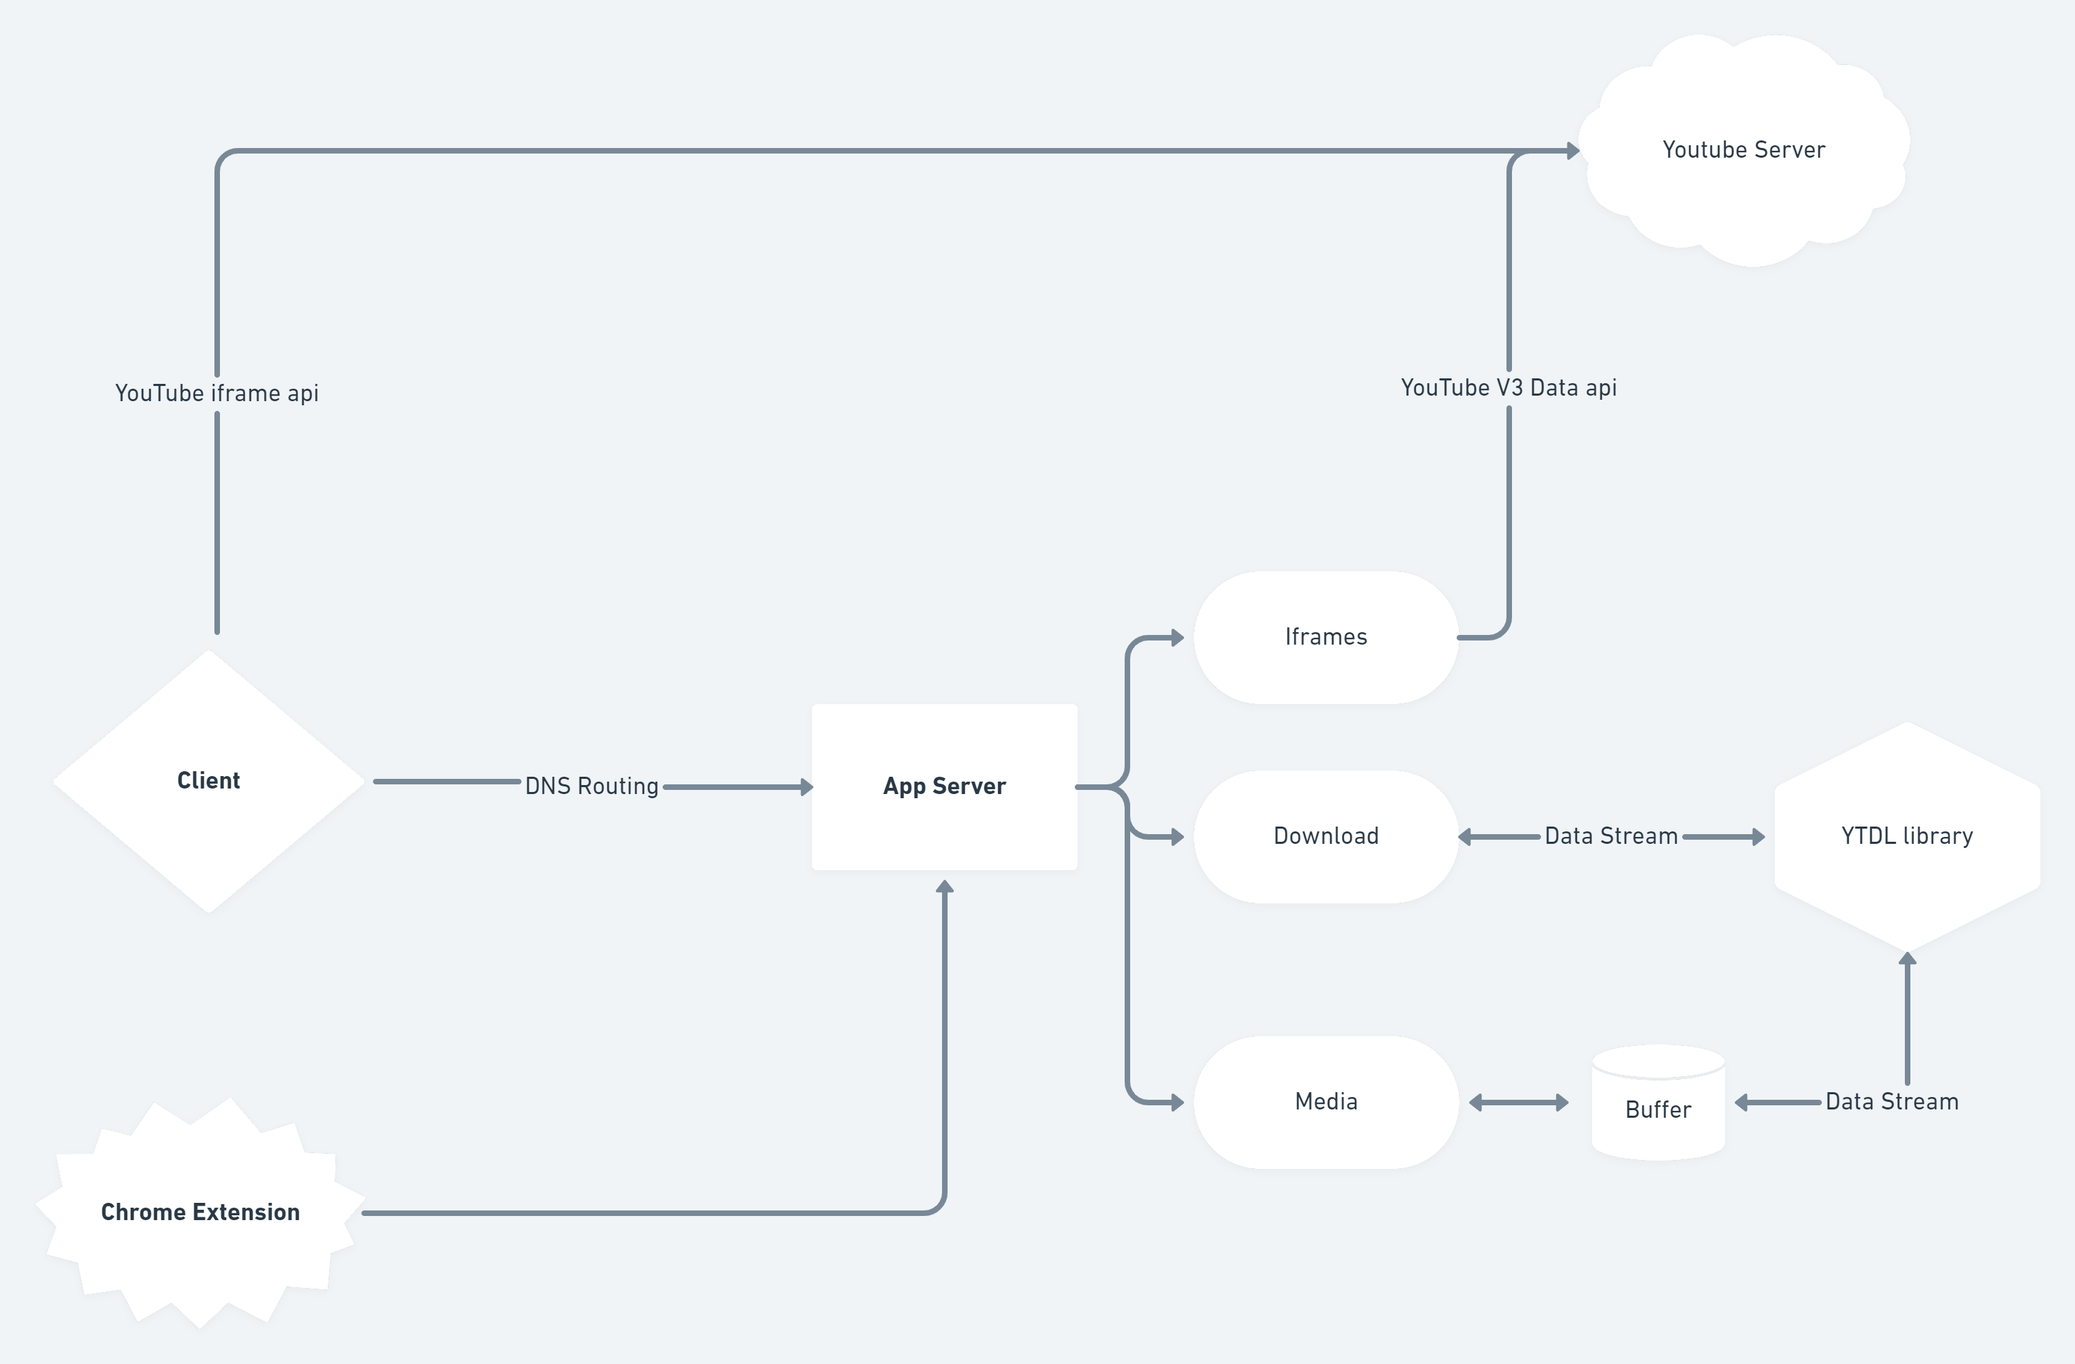
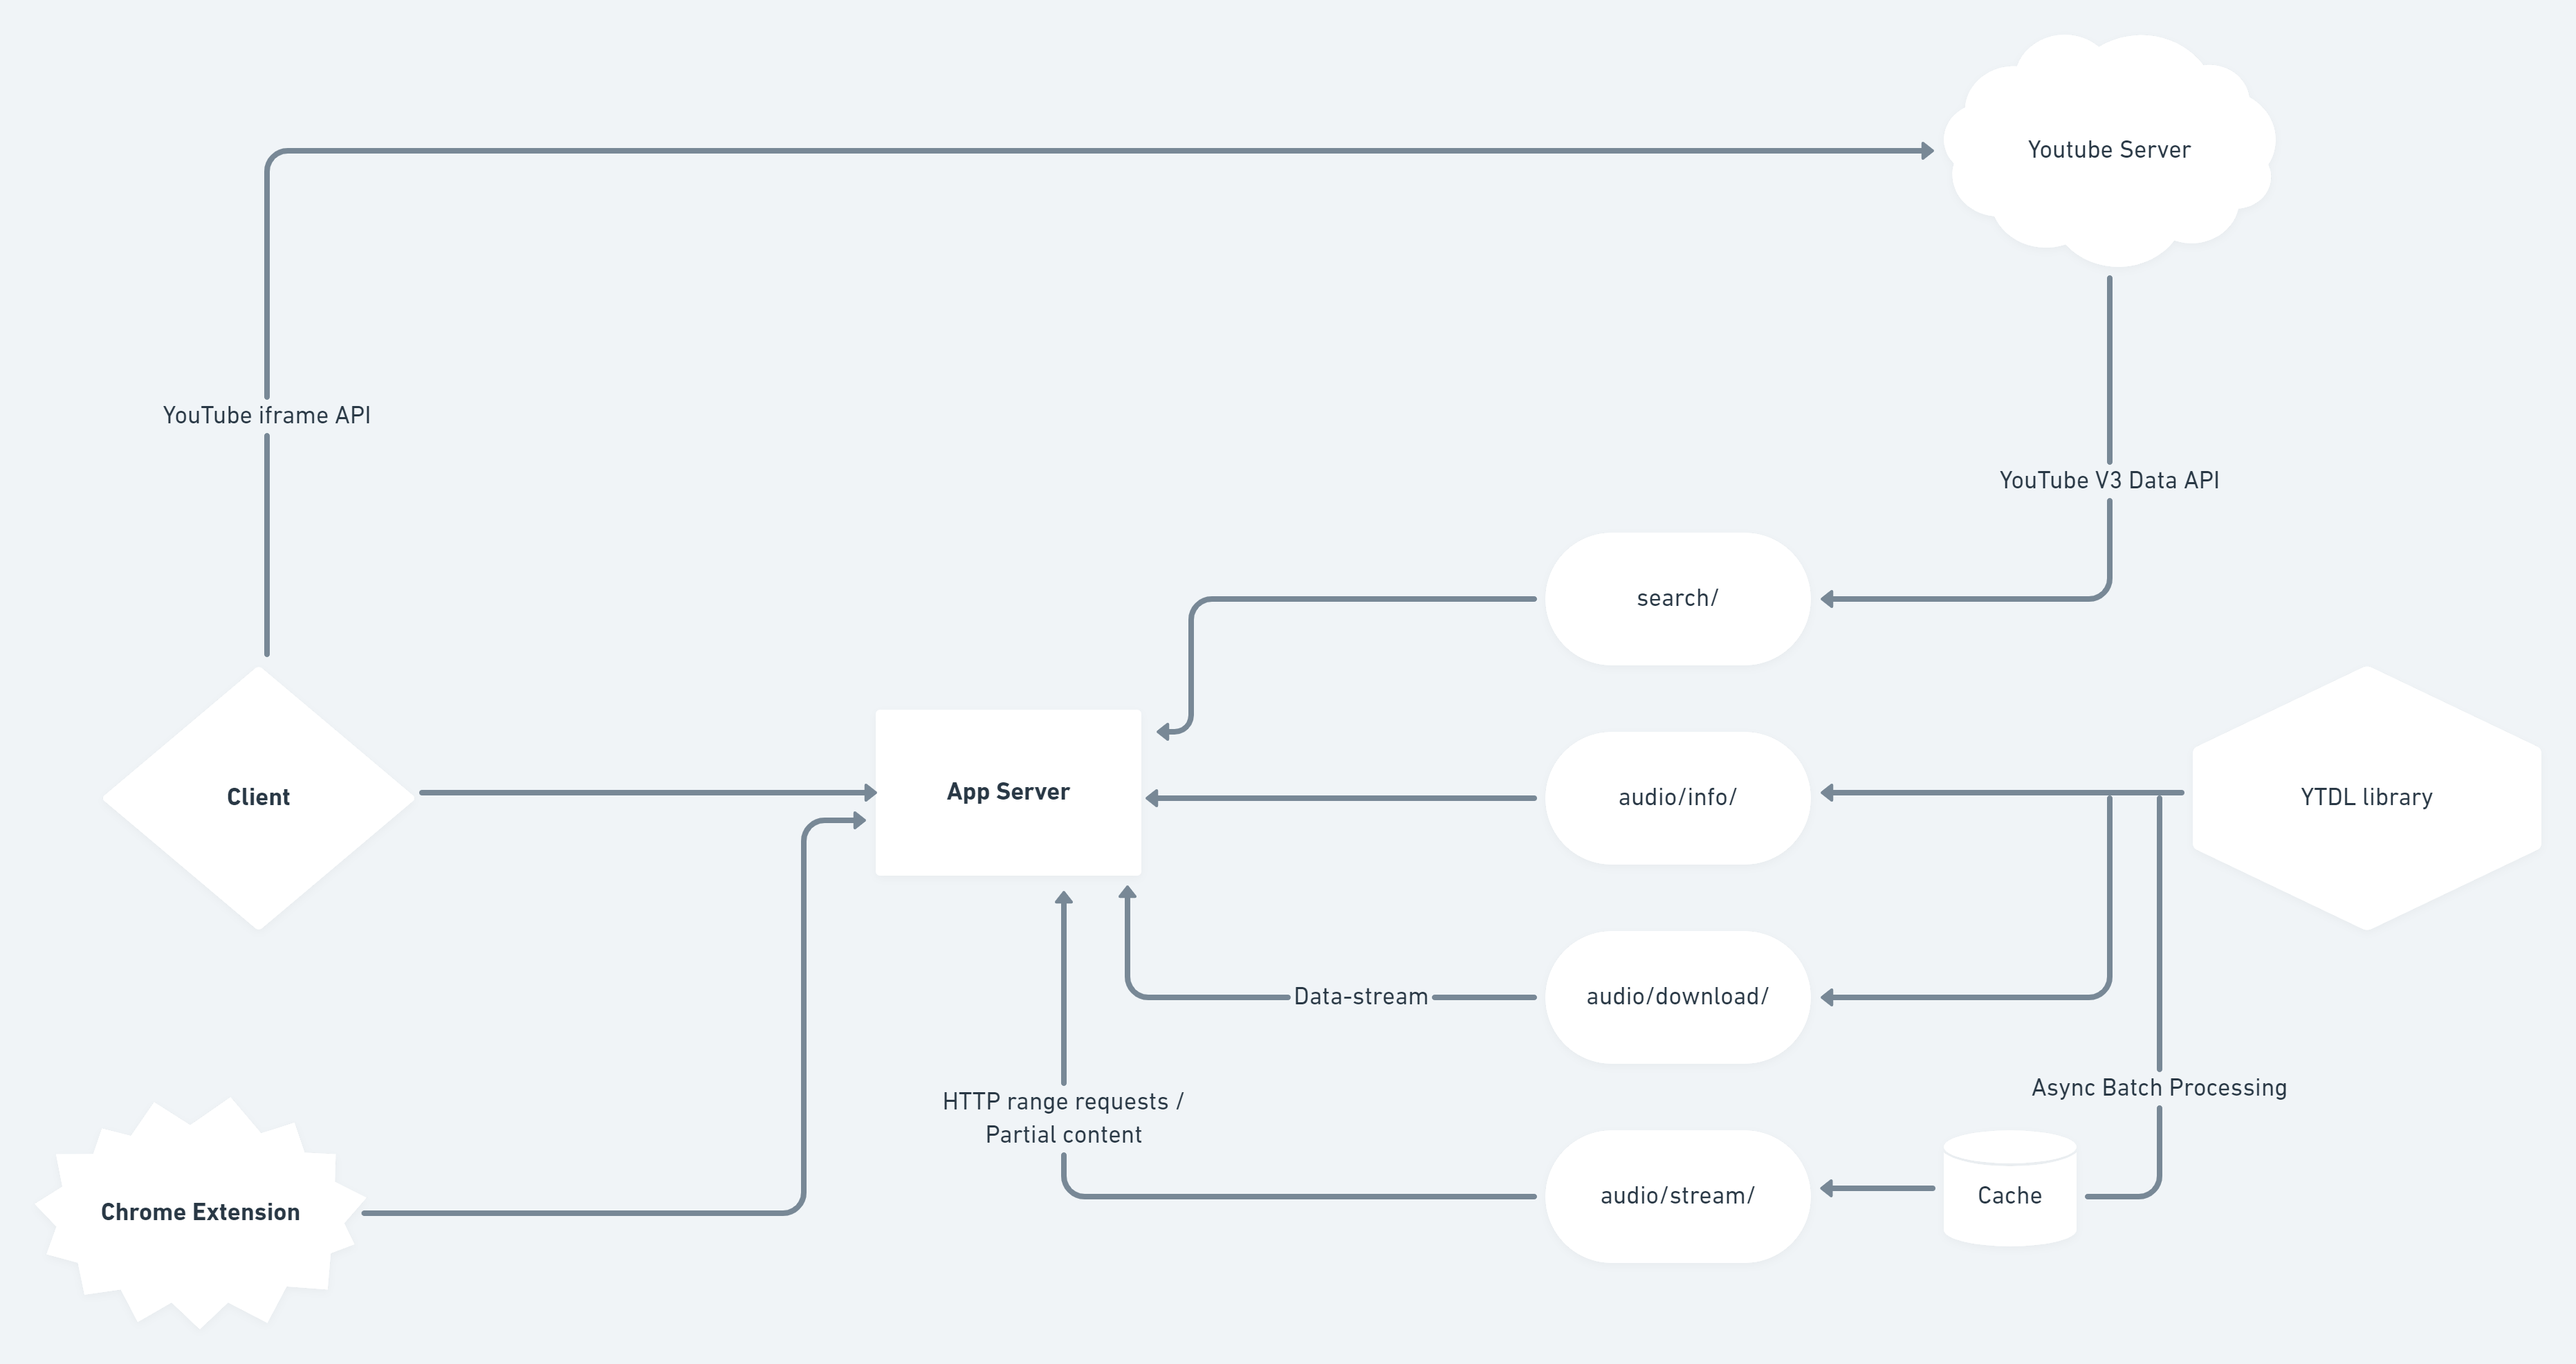
added system design

diff --git a/README.md b/README.md
@@ -8,6 +8,10 @@ A music player which plays as well as downloads any song from YouTube
 This application was developed after I found out that my father and his non-technical friends had troubles trying to download
 songs from the internet and being annoyed by the constant popping ads of YouTube premium
 
+
+
+![System-Design](System-Design-whimsical.com.png)
+
 ## Screenshots
 <p>
   <img src="Assets/SS-2.jpg"/>
